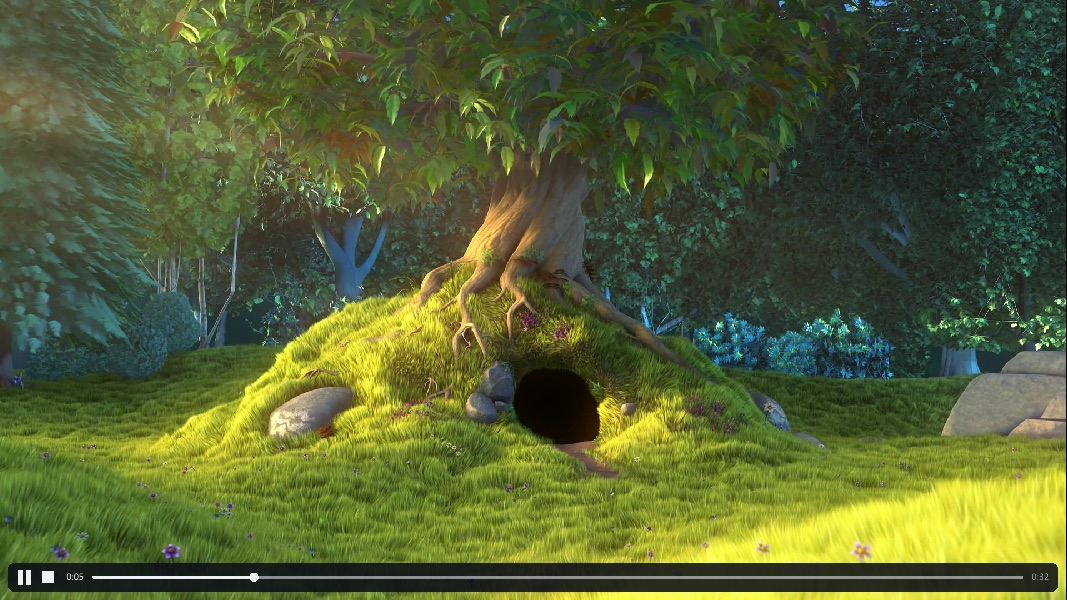
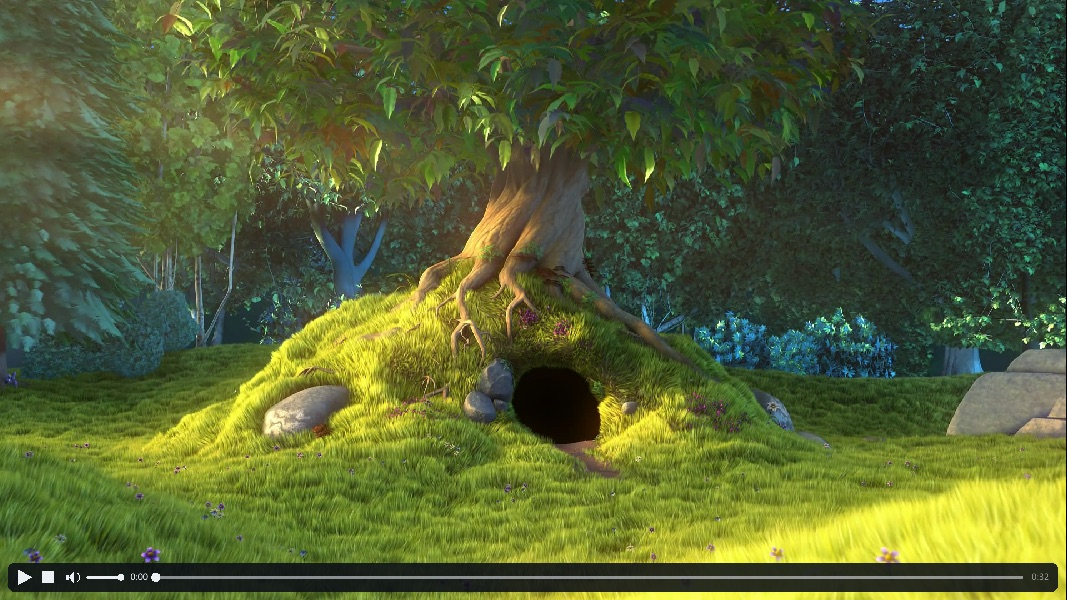
Add poster= stills and pill volume control
poster=SECONDS picks the still a video shows before playback (and in
PDF export and Studio) from anywhere in the file; playback still
starts at the beginning. The still is decoded with an input-side -ss,
falls back to frame 0 when the timestamp is unreachable, and is part
of the video cache key so the same file can pose differently per item.

The hover pill gains a mute toggle and a volume slider for videos
with audio; the level survives stop, replay, and seeks, and moving
the slider unmutes. All pill hit zones grew a padded safety halo:
clicks near the controls that miss them are consumed silently instead
of falling through and advancing the presentation.

The headless pill-screenshot rig used for the docs image is now a
permanent dev tool: RAYSLIDES_PILL_SHOT=SECONDS[:PATH] keeps the
controls visible and exports the frame shown at SECONDS. The docs
screenshot was retaken with it and now shows the full control set
over the poster=6.2 tree still.

diff --git a/docs/format.html b/docs/format.html
@@ -119,12 +119,15 @@ shadow=<span class="code-value">#000000a0</span> shadow_x=3 shadow_y=5 text=<spa
 <span class="code-key">@box</span> vid=assets/demo.mp4 x=320 y=200 w=1280
 
 <span class="code-comment"># Start on slide entry and restart when the video ends.</span>
-<span class="code-key">@box</span> vid=assets/demo.mp4 x=320 y=200 w=1280 autoplay loop</code></pre>
+<span class="code-key">@box</span> vid=assets/demo.mp4 x=320 y=200 w=1280 autoplay loop
+
+<span class="code-comment"># Show the frame at 6.2 seconds as the still before playback.</span>
+<span class="code-key">@box</span> vid=assets/demo.mp4 x=320 y=200 w=1280 poster=6.2</code></pre>
           <p>A video shows its first frame until it plays. <kbd>M</kbd> plays or pauses the videos on the current slide; <kbd>Shift</kbd> + <kbd>M</kbd> stops and rewinds them. Leaving the slide stops its videos. PDF export always captures the first frame.</p>
-          <p>Moving the mouse into a video reveals hover controls — play/pause, stop, and a seek bar — which fade out when the cursor leaves or rests. Clicking the video picture itself still advances the presentation; only the control bar consumes clicks.</p>
+          <p>Moving the mouse into a video reveals hover controls — play/pause, stop, a mute toggle with a volume slider, and a seek bar — which fade out when the cursor leaves or rests. Clicking the video picture itself still advances the presentation; only the control bar consumes clicks.</p>
           <figure class="shot">
-            <img src="images/video-controls.jpg" alt="A playing video with the hover control bar: pause and stop buttons, elapsed time, seek bar, and total duration" width="1067" height="600" loading="lazy">
-            <figcaption><strong>Hover controls appear on demand.</strong> Big Buck Bunny (© 2008 Blender Foundation, CC-BY 3.0) paused mid-seek; the bar fades away when the cursor leaves or rests on the picture.</figcaption>
+            <img src="images/video-controls.jpg" alt="A video with the hover control bar: play and stop buttons, mute toggle, volume slider, elapsed time, seek bar, and total duration" width="1067" height="600" loading="lazy">
+            <figcaption><strong>Hover controls appear on demand.</strong> Big Buck Bunny (© 2008 Blender Foundation, CC-BY 3.0) showing its <code class="inline-code">poster=6.2</code> still; the bar fades away when the cursor leaves or rests on the picture.</figcaption>
           </figure>
 
           <h2>Reuse one item</h2>

diff --git a/docs/REFERENCE.md b/docs/REFERENCE.md
@@ -712,6 +712,9 @@ Videos are placed like images, with the `vid=` attribute instead of `img=`:
 
 # start playing when the slide is entered; restart when the video ends:
 @box vid=assets/demo.mp4 x=320 y=200 w=1280 autoplay loop
+
+# show the frame at 6.2 seconds as the still before playback:
+@box vid=assets/demo.mp4 x=320 y=200 w=1280 poster=6.2
 ```
 
 Decoding is delegated to [ffmpeg](https://ffmpeg.org), which must be installed
@@ -719,7 +722,9 @@ Decoding is delegated to [ffmpeg](https://ffmpeg.org), which must be installed
 `.mp4`, `.mov`, `.webm`, and `.mkv`. If the video has an audio track, it plays
 too.
 
-A video shows its first frame (poster) until it plays. Use <kbd>M</kbd> to
+A video shows its first frame until it plays; `poster=SECONDS` picks a
+prettier still from anywhere in the video instead (PDF export and Studio show
+the same frame, and playback still starts at the beginning). Use <kbd>M</kbd> to
 play/pause the videos on the current slide and <kbd>Shift</kbd>+<kbd>M</kbd>
 to stop and rewind them; `autoplay` starts playback on slide entry. Leaving
 the slide stops all videos, and re-entering starts them from the beginning.
@@ -727,13 +732,14 @@ the slide stops all videos, and re-entering starts them from the beginning.
 screen. PDF export and Studio always show the poster frame.
 
 Moving the mouse into a video also reveals on-demand player controls:
-play/pause and stop buttons plus a seek bar with the current position. The
+play/pause and stop buttons, a mute toggle with a volume slider (for videos
+with an audio track), and a seek bar with the current position. The
 controls fade out when the cursor leaves or rests, so they never disturb a
 prepared presentation. Playback pauses while you scrub and resumes at the
 released position. Only clicks on the control bar are consumed — clicking
 the video picture itself still advances the presentation as usual.
 
-![A playing video with hover controls: pause and stop buttons, elapsed time, seek bar, and total duration](images/video-controls.jpg)
+![A video with hover controls: play and stop buttons, mute toggle, volume slider, elapsed time, seek bar, and total duration](images/video-controls.jpg)
 
 ## Reusable groups
 

diff --git a/CLAUDE.md b/CLAUDE.md
@@ -60,7 +60,7 @@ The `.sld` format uses directives prefixed with `@`:
 - `@box img=path x=N y=N scale=0.5` - image scaled to 50% of natural size
 - `@box img=path x=N y=N scale=0.5 ratio=0.5` - scaled with adjusted w/h ratio
 - `@box img=path x=N y=N w=N` - image with specified width, height auto-calculated
-- `@box vid=path x=N y=N w=N` - video (decoded by piping frames from the installed `ffmpeg`; audio plays too). Same auto-dimension rules as images, plus `autoplay` and `loop` flags. Keys: `m` play/pause, `Shift+M` stop
+- `@box vid=path x=N y=N w=N` - video (decoded by piping frames from the installed `ffmpeg`; audio plays too). Same auto-dimension rules as images, plus `autoplay`, `loop`, and `poster=SECONDS` (still frame shown before playback). Keys: `m` play/pause, `Shift+M` stop; hovering shows player controls (play/pause, stop, mute/volume, seek)
 - `@push name` / `@pop name` - save/restore element templates
 - `@pushslide name` / `@popslide name` - save/restore slide templates
 - `@let var=value` - variable substitution (`$var$` in text)
